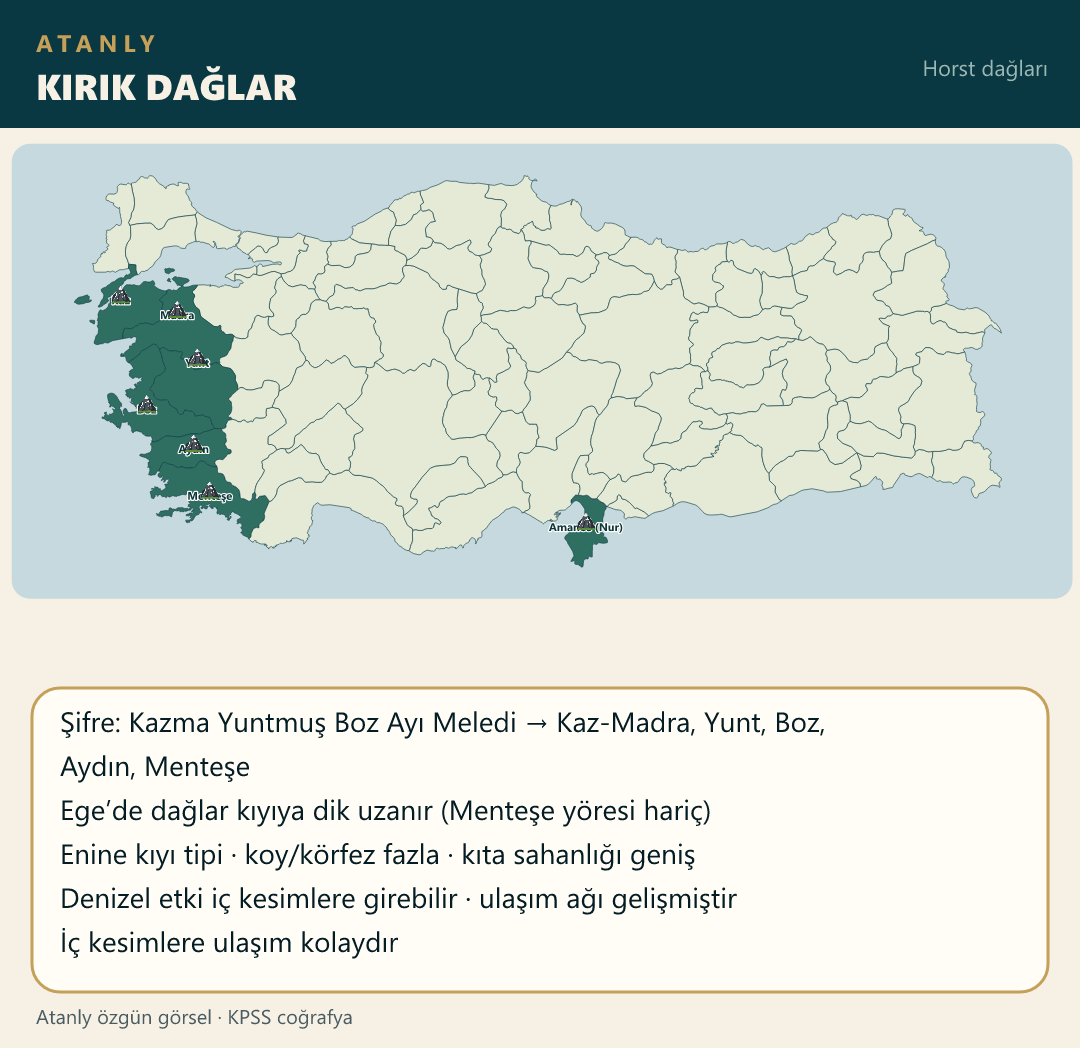
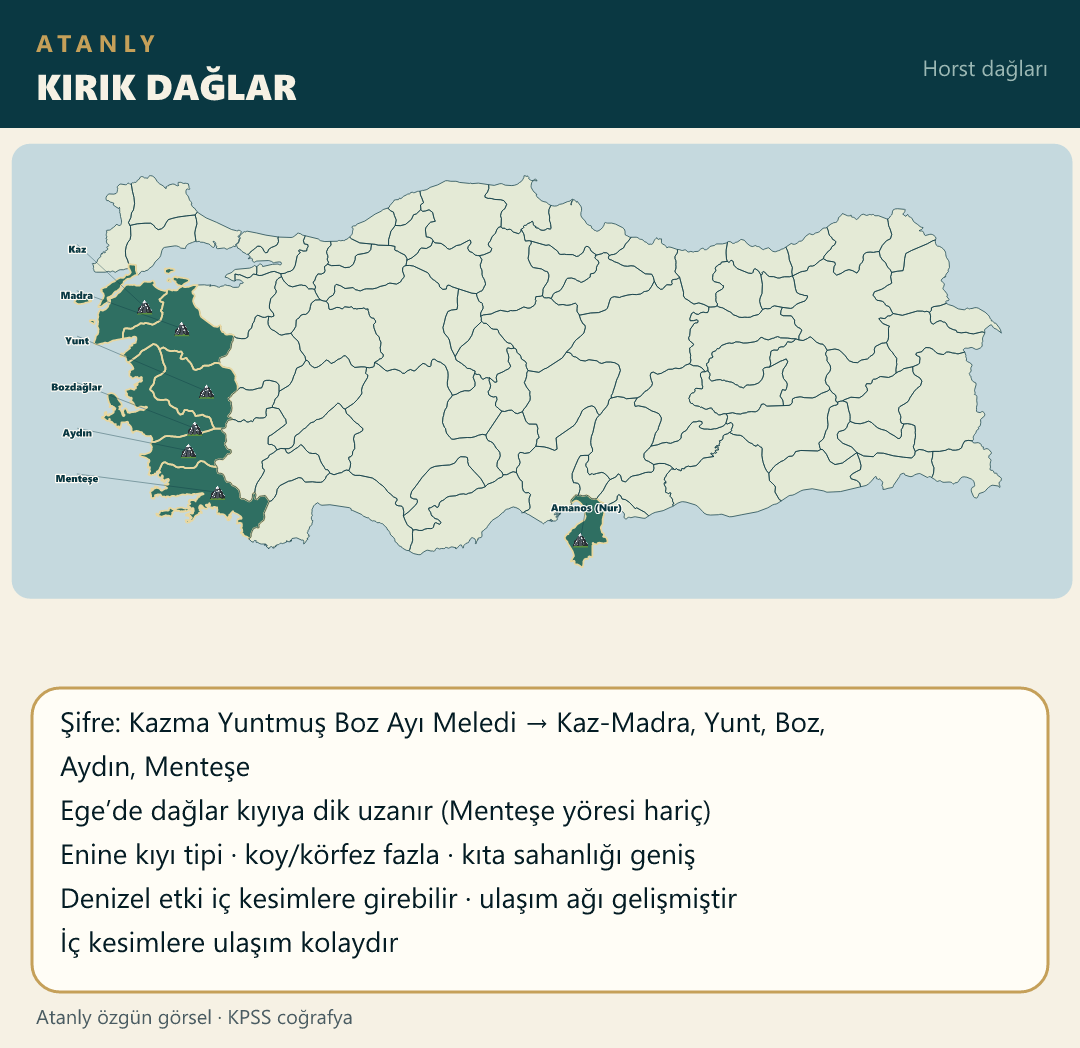
Space Aegean horst labels so kırık dağlar names stay readable.

Changed region(s): [[0.0611, 0.2443, 0.2444, 0.5191], [0.5194, 0.458, 0.5806, 0.5496], [0.0611, 0.2137, 0.0917, 0.2443]]

diff --git a/scripts/build-atanly-maps.js b/scripts/build-atanly-maps.js
@@ -376,7 +376,9 @@ function nudgeLabels(pts, fs) {
 function labelsOnMap(pts, fs) {
     fs = fs || labelFs(pts.length);
     var photo = pts.some(function (p) { return p.urun; });
-    if (photo) {
+    var offsetLabels = photo || pts.some(function (p) { return p.locked; });
+    if (offsetLabels) {
+        var lfs = photo ? 9 : fs;
         return pts.map(function (p) {
             var lx = (p.pinX != null ? p.pinX : p.x) + (p.ldx || 0);
             var ly = (p.pinY != null ? p.pinY : p.y) + (p.ldy != null ? p.ldy : 22);
@@ -386,7 +388,7 @@ function labelsOnMap(pts, fs) {
             if (Math.abs(lx - pinX) + Math.abs(ly - pinY) > 16) {
                 lead = '<line x1="' + pinX.toFixed(1) + '" y1="' + pinY.toFixed(1) + '" x2="' + lx.toFixed(1) + '" y2="' + (ly - 8).toFixed(1) + '" stroke="' + C.navy + '" stroke-width="0.7" opacity="0.55"/>';
             }
-            return lead + onMapText(lx, ly, p.text, 9, p);
+            return lead + onMapText(lx, ly, p.text, lfs, p);
         }).join("");
     }
     nudgeLabels(pts, fs);
@@ -493,15 +495,17 @@ function iconDataUri(name) {
     return uri;
 }
 
-function iconsOnMap(pts, iconName) {
+function iconsOnMap(pts, iconName, sizeOverride) {
     var href = iconDataUri(iconName);
     if (!href || !pts.length) return "";
     var photo = pts.some(function (p) { return p.urun; });
     if (!photo) {
-        var size0 = iconPx(pts.length);
+        var size0 = sizeOverride || iconPx(pts.length);
         return pts.map(function (p) {
-            var x = (p.x - size0 / 2).toFixed(1);
-            var y = (p.y - size0 - 1).toFixed(1);
+            var cx = p.pinX != null ? p.pinX : p.x;
+            var cy = p.pinY != null ? p.pinY : p.y;
+            var x = (cx - size0 / 2).toFixed(1);
+            var y = (p.pinX != null ? cy - size0 / 2 : cy - size0 - 1).toFixed(1);
             return '<image href="' + href + '" x="' + x + '" y="' + y + '" width="' + size0 + '" height="' + size0 + '" preserveAspectRatio="xMidYMid meet"/>';
         }).join("");
     }
@@ -725,7 +729,14 @@ function main() {
         writePng(path.join(IMG, c.file), cropMap(provs, c));
         console.log("ok", c.file);
     });
-    if (process.argv[2]) return;
+    var onlyMore = process.argv.slice(2);
+    function wantFile(file) {
+        if (!onlyMore.length) return true;
+        var f = norm(file);
+        return onlyMore.some(function (n) { return f.indexOf(norm(n)) >= 0; });
+    }
+
+    if (!(wantFile("21haziran") || wantFile("21aralik"))) { /* skip solstice */ } else {
 
     // 21 Haziran
     var term = '<line x1="430" y1="8" x2="250" y2="410" stroke="' + C.ink + '" stroke-width="5"/>';
@@ -766,25 +777,40 @@ function main() {
     ], 16, 78 + MAP_BLOCK_H + 16, CANVAS_W - 32, 14);
     writePng(path.join(IMG, "21 aralık.png"), frame(78 + MAP_BLOCK_H + 16 + decFacts.h + 28, "21 ARALIK", "Kış gündönümü", mapBlock(provs, decExtra) + decFacts.svg));
     console.log("ok solstice");
+    }
 
     function labeled(title, kicker, items, facts) {
+        if (!wantFile(title.file)) return;
         var pts = [];
+        var usePins = items.some(function (it) { return it.ldx != null || it.ldy != null || it.pdx || it.pdy; });
         items.forEach(function (it) {
             var fp = findProv(provs, it.il);
             if (!fp) {
                 console.warn("il yok:", it.il);
                 return;
             }
-            pts.push({ x: fp.cx, y: fp.cy, ox: fp.cx, oy: fp.cy, text: mapCaption(it.label) });
+            var pos = districtXY(fp);
+            pos = { x: pos.x + (it.pdx || 0), y: pos.y + (it.pdy || 0) };
+            var p = { x: pos.x, y: pos.y, ox: pos.x, oy: pos.y, text: mapCaption(it.label) };
+            if (usePins) {
+                p.pinX = pos.x;
+                p.pinY = pos.y;
+                p.ldx = it.ldx != null ? it.ldx : 0;
+                p.ldy = it.ldy != null ? it.ldy : 26;
+                p.locked = true;
+            }
+            pts.push(p);
         });
-        spreadSameCell(pts);
+        if (!usePins) spreadSameCell(pts);
+        var overlay = iconsOnMap(pts, topicIcon(title.file), title.iconSize);
         var labels = labelsOnMap(pts);
-        var extra = landPaths(provs, items.map(function (it) { return it.il; }), C.landHi) + labels + iconsOnMap(pts, topicIcon(title.file));
+        var extra = landPaths(provs, items.map(function (it) { return it.il; }), C.landHi) + overlay + labels;
         var factsY = 78 + MAP_BLOCK_H + 16;
         var factsBox = wrapFacts(facts, 16, factsY, CANVAS_W - 32, 14);
         var H = factsY + factsBox.h + 28;
         var body = mapBlock(provs, extra) + factsBox.svg;
         writePng(path.join(IMG, title.file), frame(H, title.head, kicker, body));
+        console.log("ok", title.file);
     }
 
     labeled({ file: "kıvrım_dağlar.png", head: "KIVRIM DAĞLARI" }, "Yer şekilleri",
@@ -811,15 +837,15 @@ function main() {
         ]
     );
 
-    labeled({ file: "kırık_dağlar.png", head: "KIRIK DAĞLAR" }, "Horst dağları",
+    labeled({ file: "kırık_dağlar.png", head: "KIRIK DAĞLAR", iconSize: 15 }, "Horst dağları",
         [
-            { il: "Çanakkale", label: "Kaz" },
-            { il: "Balıkesir", label: "Madra" },
-            { il: "Manisa", label: "Yunt" },
-            { il: "İzmir", label: "Boz" },
-            { il: "Aydın", label: "Aydın" },
-            { il: "Muğla", label: "Menteşe (istisna)" },
-            { il: "Hatay", label: "Amanos (Nur)" }
+            { il: "Çanakkale", label: "Kaz", ldx: -66, ldy: -53 },
+            { il: "Balıkesir", label: "Madra", ldx: -103, ldy: -29 },
+            { il: "Manisa", label: "Yunt", ldx: -127, ldy: -46 },
+            { il: "İzmir", label: "Bozdağlar", ldx: -116, ldy: -37, pdx: 36, pdy: 8 },
+            { il: "Aydın", label: "Aydın", ldx: -109, ldy: -14 },
+            { il: "Muğla", label: "Menteşe", ldx: -138, ldy: -10 },
+            { il: "Hatay", label: "Amanos (Nur)", ldx: 6, ldy: -28 }
         ],
         [
             "Şifre: Kazma Yuntmuş Boz Ayı Meledi → Kaz-Madra, Yunt, Boz, Aydın, Menteşe",
@@ -1005,6 +1031,9 @@ function main() {
             yazilar: ["Aydın", "Alanya"],
             facts: ["Zımparalama ve parlatma", "Aydın ve Alanya · ihraç edilir"] }
     ];
+    if (onlyMore.length) {
+        minerals = minerals.filter(function (m) { return wantFile(m.file); });
+    }
     minerals.forEach(function (m) {
         writePng(path.join(IMG, m.file), cropMap(provs, {
             file: m.file,
@@ -1047,6 +1076,7 @@ function main() {
         ["Çeşit fazla, miktar az", "Yukarı Fırat (Elazığ) çeşitlilikte birinci", "Bor ~%72 dünya rezervi"]
     );
 
+    if (wantFile("nufusprmt") || wantFile("nufus")) {
     // nüfus piramidi
     function pyr(cx, cy, color, label, pts) {
         var poly = pts.map(function (p) { return (cx + p[0] * 0.72) + "," + (cy + p[1] * 0.72); }).join(" ");
@@ -1063,6 +1093,7 @@ function main() {
         pyr(400, 650, "#6B4C9A", "Gelişmiş", [[0, -88], [38, -5], [58, 30], [20, 80], [-20, 80], [-58, 30], [-38, -5]]);
     writePng(path.join(IMG, "nüfus_prmt.png"), frame(780, "NÜFUS PİRAMİTLERİ", "Gelişmişlik tipleri", pyBody));
     console.log("ok pyramids");
+    }
 }
 
 main();

diff --git a/notlar/cografya-2-not.js b/notlar/cografya-2-not.js
@@ -44,7 +44,7 @@ window.cografya_2_notlari = [
             </ul>
             <!-- 🗺 HARİTA / RESİM ALANI -->
             <div class="mt-4 overflow-hidden rounded-xl border border-blue-200 dark:border-blue-700/50 bg-white dark:bg-slate-800 p-2">
-                <img src="./src/img/kırık_dağlar.png?v=9" alt="21 Aralık Haritası" class="w-full h-auto rounded-lg object-contain" loading="lazy">
+                <img src="./src/img/kırık_dağlar.png?v=10" alt="Kırık Dağlar Haritası" class="w-full h-auto rounded-lg object-contain" loading="lazy">
             </div>
         </div>
     </div>

diff --git a/notlar/cografya-3-not.js b/notlar/cografya-3-not.js
@@ -252,7 +252,7 @@ window.cografya_3_notlari = [
         </div>
     <!-- 🗺 HARİTA / RESİM ALANI -->
             <div class="mt-4 overflow-hidden rounded-xl border border-blue-200 dark:border-blue-700/50 bg-white dark:bg-slate-800 p-2">
-                <img src="./src/img/kırık_dağlar.png?v=9" alt="21 Aralık Haritası" class="w-full h-auto rounded-lg object-contain" loading="lazy">
+                <img src="./src/img/kırık_dağlar.png?v=10" alt="Kırık Dağlar Haritası" class="w-full h-auto rounded-lg object-contain" loading="lazy">
             </div>
     </div>
     `,

diff --git a/index.html b/index.html
@@ -100,8 +100,8 @@
     <script src="notlar/tarih-15-not.js?v=3"></script>
     <script src="notlar/tarih-16-not.js?v=1"></script>
     <script src="notlar/cografya-1-not.js?v=9"></script>
-    <script src="notlar/cografya-2-not.js?v=9"></script>
-    <script src="notlar/cografya-3-not.js?v=9"></script>
+    <script src="notlar/cografya-2-not.js?v=10"></script>
+    <script src="notlar/cografya-3-not.js?v=10"></script>
     <script src="notlar/cografya-4-not.js?v=9"></script>
     <script src="notlar/cografya-5-not.js?v=9"></script>
     <script src="notlar/cografya-6-not.js?v=3"></script>
